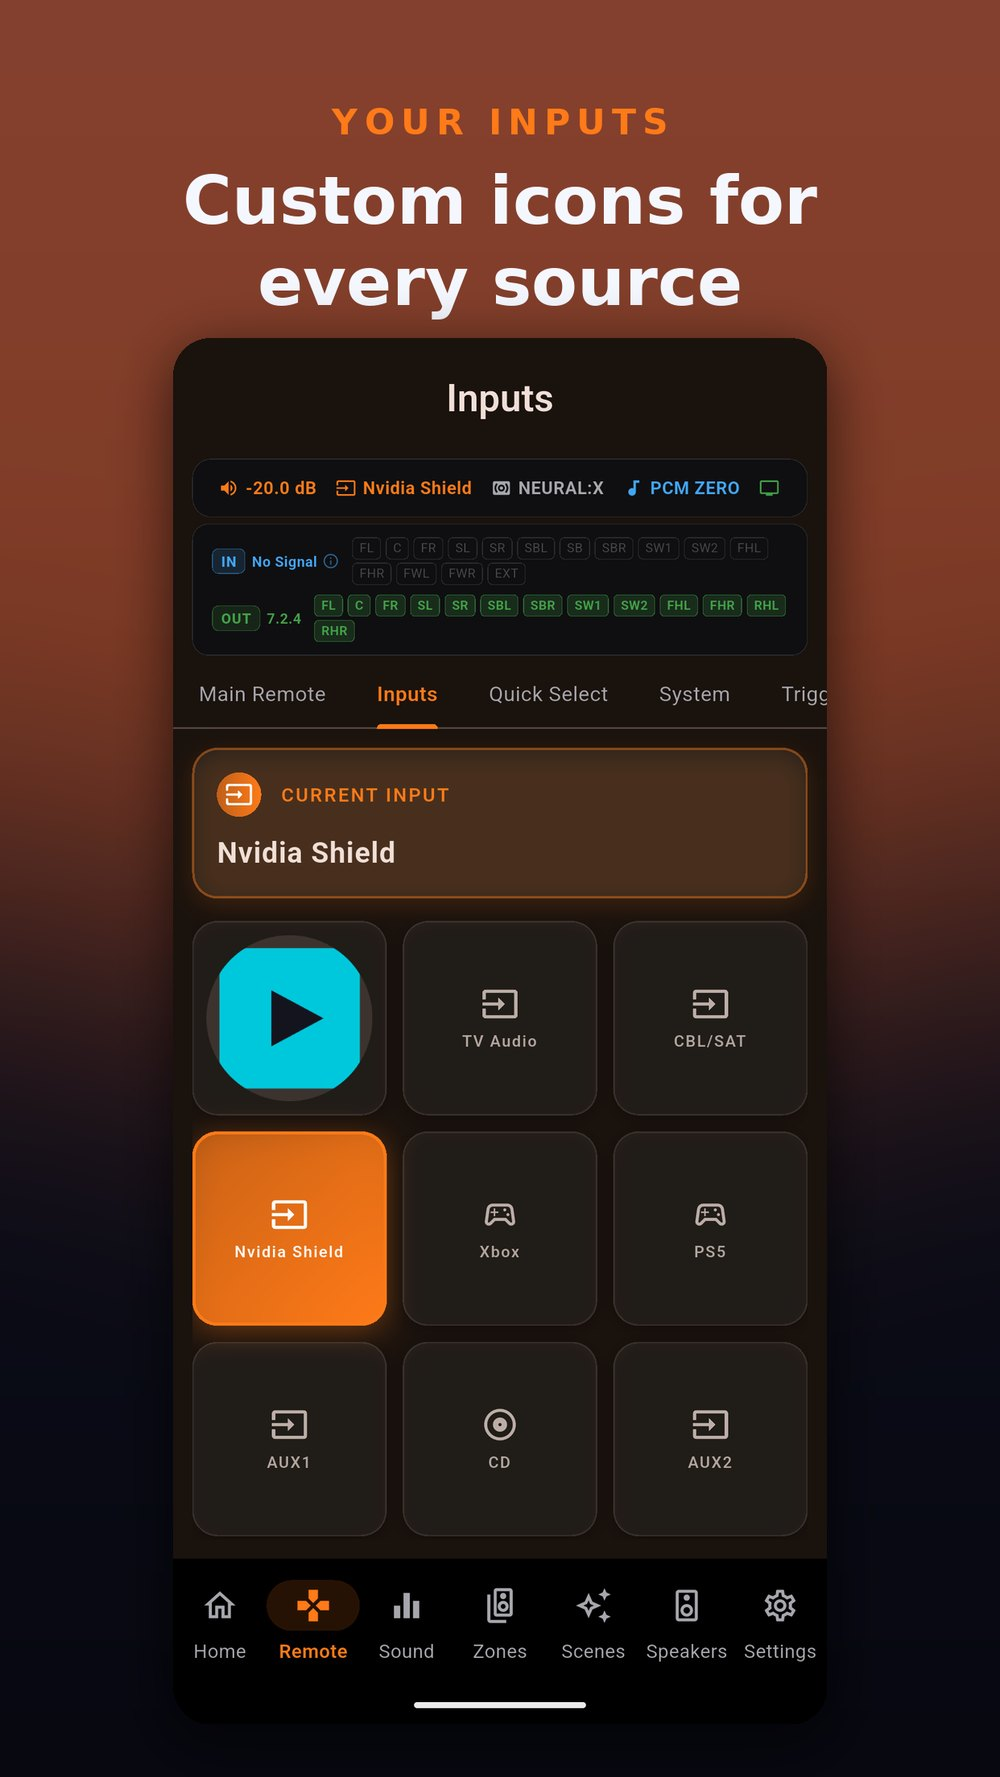
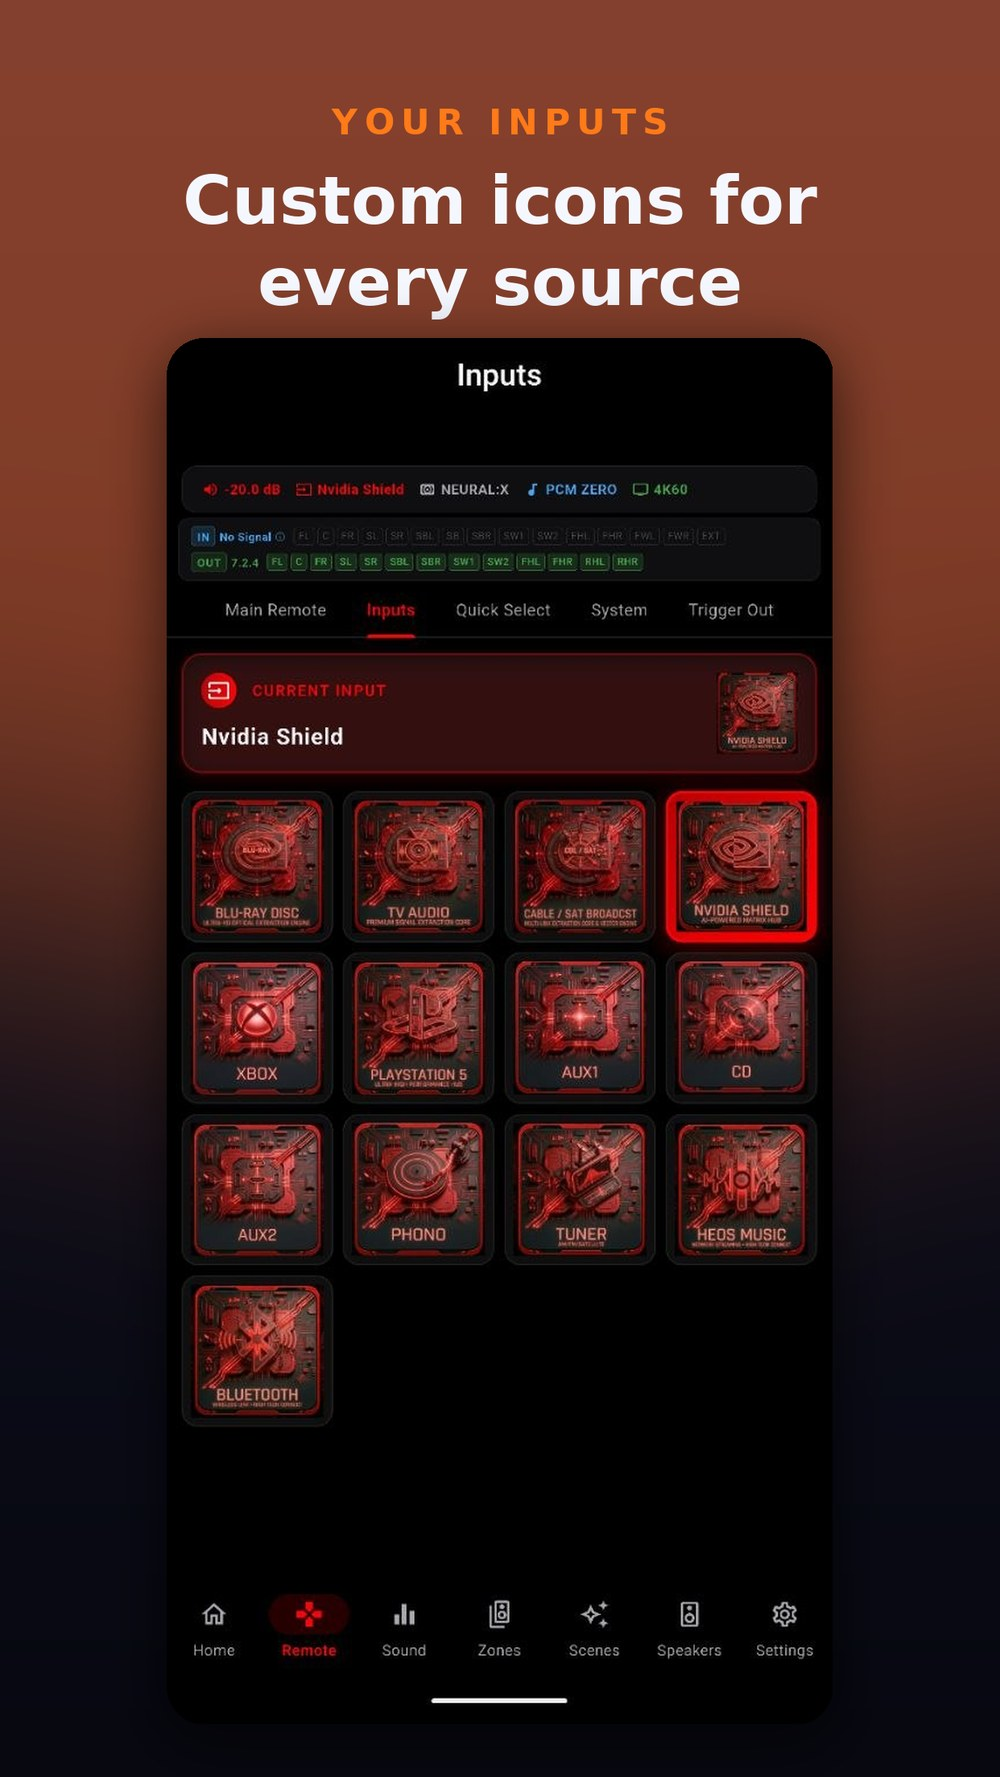
AVR page: explicit platform row + better inputs screenshot (#90)
- Added an explicit 'Available on: iPhone / iPad / Android / macOS /
  Windows' platform row to the hero (template pattern for all product pages).
- Swapped the bland inputs screenshot for the red TJ-Mode custom-icon grid
  Meir supplied, framed with the matching 'Custom icons for every source'
  store header + glow.

diff --git a/avr-maestro/index.html b/avr-maestro/index.html
@@ -36,6 +36,9 @@
         .rate-hero .lbl a{color:var(--accent); text-decoration:none} .rate-hero .lbl a:hover{text-decoration:underline}
         .store-row{display:flex; gap:.7rem; flex-wrap:wrap; margin-bottom:0}
         .store-row .btn svg{fill:var(--accent)}
+        .platforms{display:flex; align-items:center; gap:.55rem; flex-wrap:wrap; margin-top:1.1rem}
+        .platforms .pl-lbl{font-family:'IBM Plex Mono',monospace; font-size:.64rem; letter-spacing:.16em; text-transform:uppercase; color:var(--faint)}
+        .platforms .pl{font-family:'IBM Plex Mono',monospace; font-size:.68rem; letter-spacing:.04em; color:var(--muted); border:1px solid var(--line-strong); border-radius:3px; padding:.22rem .6rem}
         .manual-cta{display:flex; align-items:center; gap:1rem; margin-top:1.4rem; padding:1rem 1.2rem; border:1px solid var(--accent-star); border-radius:8px; text-decoration:none; background:rgba(255,110,64,.05); transition:border-color .25s, background .25s}
         .manual-cta:hover{border-color:var(--accent); background:var(--accent-soft)}
         .manual-cta .mi{color:var(--accent); font-size:1.4rem; line-height:1}
@@ -102,6 +105,10 @@
                         <a class="btn store" href="https://apps.apple.com/us/app/avr-maestro/id6762881597" target="_blank" rel="noopener"><svg viewBox="0 0 24 24" width="15" height="15" aria-hidden="true"><path d="M17.05 20.28c-.98.95-2.05.8-3.08.35-1.09-.46-2.09-.48-3.24 0-1.44.62-2.2.44-3.06-.35C2.79 15.25 3.51 7.59 9.05 7.31c1.35.07 2.29.74 3.08.8 1.18-.24 2.31-.93 3.57-.84 1.51.12 2.65.72 3.4 1.8-3.12 1.87-2.38 5.98.48 7.13-.57 1.5-1.31 2.99-2.54 4.09zM12.03 7.25c-.15-2.23 1.66-4.07 3.74-4.25.29 2.58-2.34 4.5-3.74 4.25z"/></svg>App Store</a>
                         <a class="btn store" href="https://apps.apple.com/us/app/avr-maestro/id6762881597" target="_blank" rel="noopener"><svg viewBox="0 0 24 24" width="15" height="15" aria-hidden="true"><path d="M17.05 20.28c-.98.95-2.05.8-3.08.35-1.09-.46-2.09-.48-3.24 0-1.44.62-2.2.44-3.06-.35C2.79 15.25 3.51 7.59 9.05 7.31c1.35.07 2.29.74 3.08.8 1.18-.24 2.31-.93 3.57-.84 1.51.12 2.65.72 3.4 1.8-3.12 1.87-2.38 5.98.48 7.13-.57 1.5-1.31 2.99-2.54 4.09z"/></svg>Mac App Store</a>
                         <a class="btn store" href="https://apps.microsoft.com/detail/9P4M7W4J5106" target="_blank" rel="noopener"><svg viewBox="0 0 24 24" width="15" height="15" aria-hidden="true"><path d="M11.4 3v8.4H3V3h8.4zM11.4 21H3v-8.4h8.4V21zM12.6 3H21v8.4h-8.4V3zM21 21h-8.4v-8.4H21V21z"/></svg>Microsoft Store</a>
+                    </div>
+                    <div class="platforms">
+                        <span class="pl-lbl">Available on</span>
+                        <span class="pl">iPhone</span><span class="pl">iPad</span><span class="pl">Android</span><span class="pl">macOS</span><span class="pl">Windows</span>
                     </div>
                     <a class="manual-cta" href="https://avrmaestro.com" target="_blank" rel="noopener">
                         <span class="mi">&#128214;</span>
